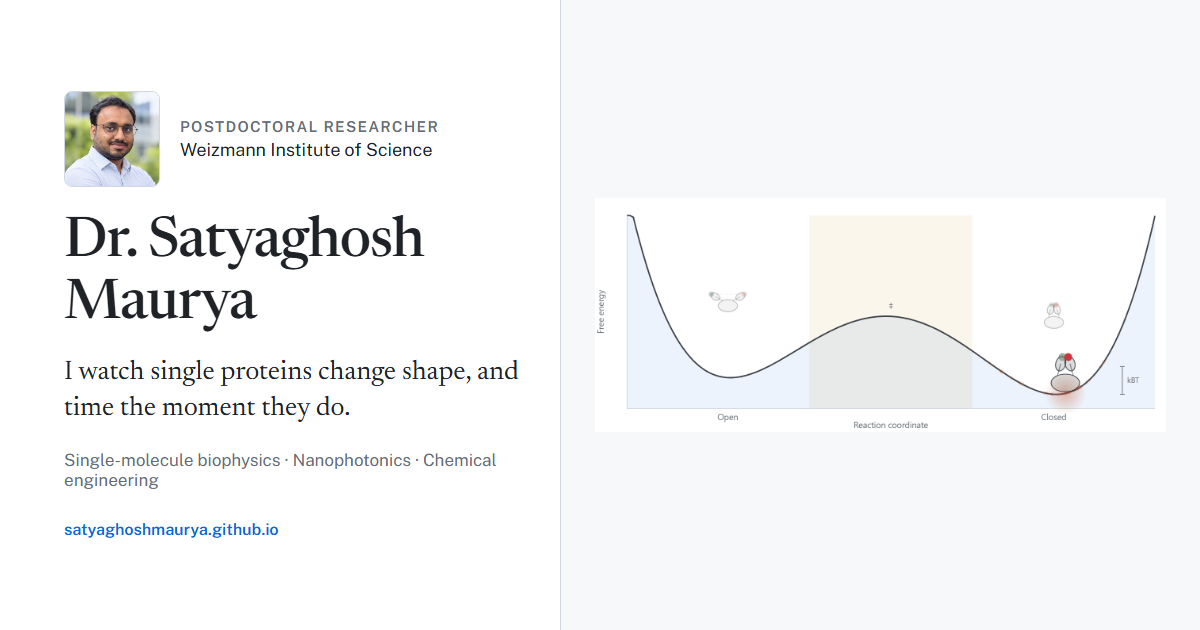
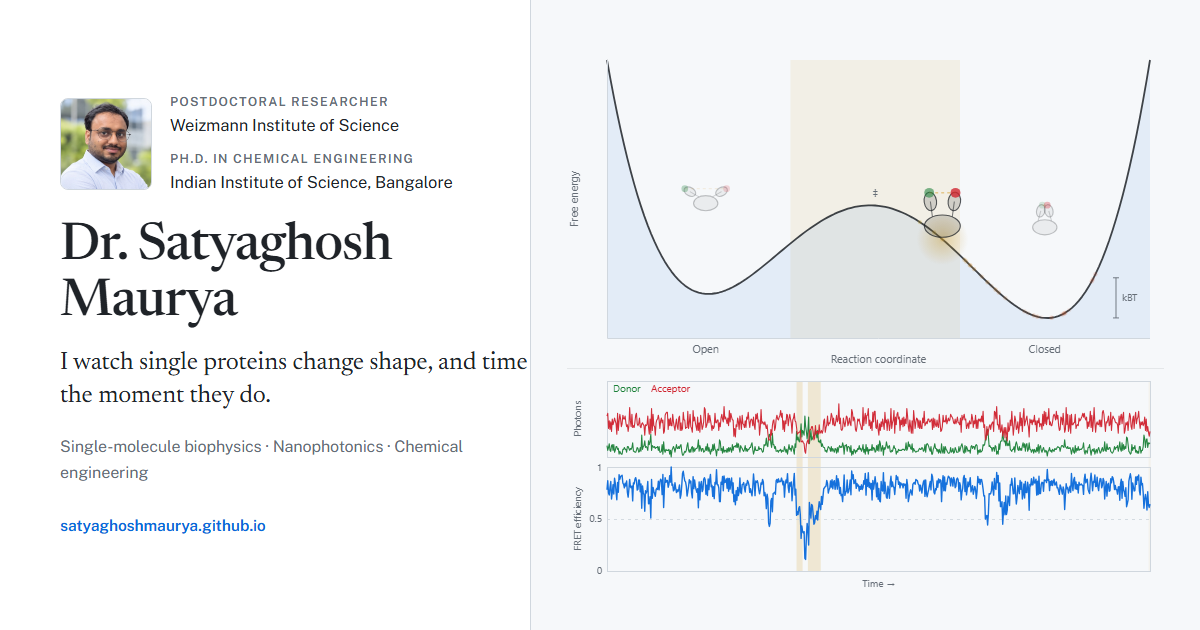
Preview card: add the doctorate and the FRET trace; point the photo inbox at Drive
The card now runs the real hero figure, so it carries the conformational landscape and the donor, acceptor and FRET traces instead of a single static figure, and the left side lists both the postdoctoral post and the Ph.D. The Atlas inbox stays in Google Drive, reachable from the phone, now that the site is edited from this repository.

diff --git a/tools/og/og-card.html b/tools/og/og-card.html
@@ -6,50 +6,107 @@
 <link rel="preconnect" href="https://fonts.googleapis.com">
 <link rel="preconnect" href="https://fonts.gstatic.com" crossorigin>
 <link href="https://fonts.googleapis.com/css2?family=Newsreader:opsz,wght@6..72,400;6..72,500;6..72,600&family=Public+Sans:wght@400;500;600&display=swap" rel="stylesheet">
+<link rel="stylesheet" href="../../css/style.css">
 <style>
   /* Rendered at exactly 1200x630 and saved to assets/img/og-card.png.
-     See tools/og/README.md for the one command that regenerates it. */
-  * { box-sizing: border-box; margin: 0; padding: 0; }
+     The right half runs the real hero figure, so the card carries both the
+     conformational landscape and the FRET trace below it. See README.md. */
+  * { box-sizing: border-box; }
   body {
     width: 1200px;
     height: 630px;
+    margin: 0;
     overflow: hidden;
-    background: #ffffff;
-    color: #1f2328;
-    font-family: "Public Sans", -apple-system, "Segoe UI", sans-serif;
+    background: var(--bg);
     display: grid;
-    grid-template-columns: 560px 1fr;
+    grid-template-columns: 530px 1fr;
     align-items: center;
   }
-  .left { padding: 58px 0 58px 64px; }
-  .id { display: flex; align-items: center; gap: 20px; margin-bottom: 26px; }
-  .id img { width: 96px; height: 96px; border-radius: 8px; object-fit: cover; border: 1px solid #d0d7de; }
-  .role { font-size: 15px; font-weight: 600; letter-spacing: 0.09em; text-transform: uppercase; color: #656d76; }
-  .org { font-size: 18px; color: #1f2328; margin-top: 4px; }
-  h1 { font-family: "Newsreader", Georgia, serif; font-size: 56px; font-weight: 500; letter-spacing: -0.02em; line-height: 1.1; }
-  .lede { font-family: "Newsreader", Georgia, serif; font-size: 27px; line-height: 1.35; color: #1f2328; margin-top: 18px; }
-  .keys { font-size: 17px; color: #656d76; margin-top: 22px; }
-  .url { font-size: 16px; color: #0969da; font-weight: 600; margin-top: 30px; }
-  .right { height: 100%; display: flex; align-items: center; justify-content: center; background: #f6f8fa; border-left: 1px solid #d0d7de; padding: 40px 34px; }
-  .right img { max-width: 100%; max-height: 100%; object-fit: contain; }
+
+  .card-left { padding: 50px 0 50px 60px; }
+
+  .card-id { display: flex; align-items: center; gap: 18px; margin-bottom: 22px; }
+  .card-id img {
+    width: 92px; height: 92px; border-radius: 8px;
+    object-fit: cover; border: 1px solid var(--border); flex-shrink: 0;
+  }
+  .card-role {
+    font-size: 12.5px; font-weight: 600; letter-spacing: 0.1em;
+    text-transform: uppercase; color: var(--text-muted);
+  }
+  .card-org { font-size: 16.5px; color: var(--text); margin: 0 0 9px; }
+  .card-org:last-child { margin-bottom: 0; }
+
+  .card-name {
+    font-family: var(--font-serif); font-size: 52px; font-weight: 500;
+    letter-spacing: -0.02em; line-height: 1.08; margin: 0;
+  }
+  .card-lede {
+    font-family: var(--font-serif); font-size: 25px; line-height: 1.34;
+    color: var(--text); margin: 16px 0 0;
+  }
+  .card-keys { font-size: 16px; color: var(--text-muted); margin: 20px 0 0; }
+  .card-url { font-size: 15.5px; color: var(--accent); font-weight: 600; margin: 26px 0 0; }
+
+  /* right half: the live figure, stripped of its controls and caption */
+  .card-figure {
+    height: 100%; padding: 30px 36px;
+    background: var(--bg-alt); border-left: 1px solid var(--border);
+    display: flex; align-items: center;
+  }
+  .card-figure .landscape-hero {
+    margin: 0; width: 100%; border: none; background: transparent; box-shadow: none;
+    padding: 0; border-radius: 0;
+  }
+  .card-figure .landscape-hero-bar,
+  .card-figure .landscape-hero-caption { display: none; }
+  .card-figure .landscape-canvas { height: 330px; }
+  .card-figure .trace-canvas { height: 225px; }
 </style>
 </head>
 <body>
-  <div class="left">
-    <div class="id">
+  <div class="card-left">
+    <div class="card-id">
       <img src="../../assets/img/portrait.jpg" alt="">
       <div>
-        <div class="role">Postdoctoral Researcher</div>
-        <div class="org">Weizmann Institute of Science</div>
+        <div class="card-role">Postdoctoral Researcher</div>
+        <p class="card-org">Weizmann Institute of Science</p>
+        <div class="card-role">Ph.D. in Chemical Engineering</div>
+        <p class="card-org">Indian Institute of Science, Bangalore</p>
       </div>
     </div>
-    <h1>Dr. Satyaghosh Maurya</h1>
-    <p class="lede">I watch single proteins change shape, and time the moment they do.</p>
-    <p class="keys">Single-molecule biophysics &middot; Nanophotonics &middot; Chemical engineering</p>
-    <p class="url">satyaghoshmaurya.github.io</p>
+    <h1 class="card-name">Dr. Satyaghosh Maurya</h1>
+    <p class="card-lede">I watch single proteins change shape, and time the moment they do.</p>
+    <p class="card-keys">Single-molecule biophysics &middot; Nanophotonics &middot; Chemical engineering</p>
+    <p class="card-url">satyaghoshmaurya.github.io</p>
   </div>
-  <div class="right">
-    <img src="../../assets/img/research/landscape.png" alt="">
+
+  <div class="card-figure">
+    <figure class="landscape-hero" id="landscapeHero">
+      <div class="landscape-hero-bar">
+        <span class="landscape-hero-title">Watching a single protein open and close</span>
+        <div class="landscape-hero-controls">
+          <label class="landscape-hero-slider">
+            <span>Temperature</span>
+            <input type="range" id="heroTemp" min="0.22" max="0.70" step="0.01" value="0.40">
+            <span id="heroTempVal" class="mono">&Delta;G&Dagger; &asymp; 2.8 kBT</span>
+          </label>
+          <button type="button" class="hero-btn hero-btn-primary" id="heroPlay">Play</button>
+        </div>
+      </div>
+      <canvas id="landscapeCanvas" class="landscape-canvas" role="img" aria-label="Conformational free-energy landscape"></canvas>
+      <canvas id="traceCanvas" class="trace-canvas" role="img" aria-label="Donor and acceptor photon counts and FRET efficiency"></canvas>
+      <figcaption class="landscape-hero-caption">
+        <span>E<sub>FRET</sub> = <strong id="heroReadoutE" class="mono">0.84</strong></span>
+        <span>State: <strong id="heroReadoutState">Closed</strong></span>
+        <span>Transitions: <strong id="heroReadoutN" class="mono">0</strong></span>
+        <span>Last transition path: <strong id="heroReadoutTP" class="mono">&ndash;</strong></span>
+        <span class="hero-hint" id="heroHint"></span>
+        <span class="landscape-hero-note"></span>
+      </figcaption>
+    </figure>
   </div>
+
+  <script src="../../js/landscape-hero.js"></script>
 </body>
 </html>

diff --git a/tools/atlas/atlas_ingest.py b/tools/atlas/atlas_ingest.py
@@ -51,7 +51,10 @@ except Exception:  # noqa: BLE001
     pass
 
 SITE_DEFAULT = Path(__file__).resolve().parents[2]
-INBOX_DEFAULT = SITE_DEFAULT / "_atlas_inbox"   # inside the project; the underscore keeps GitHub Pages from serving it
+INBOX_DEFAULT = Path(r"G:\My Drive\Anu\Satya\WebSite_github\_atlas_inbox")
+# The inbox stays in Google Drive, not in this repository, so photographs can be
+# shared straight into it from Google Photos on the phone. Only resized copies with
+# the camera metadata stripped are written into assets/img/field/atlas/ and published.
 VAULT_DEFAULT = Path(r"G:\My Drive\New_Projects\Citizen_Science\Native_flora_fauna\awadh-biodiversity-atlas")
 
 WEB_SUBDIR = Path("assets") / "img" / "field" / "atlas"

diff --git a/tools/atlas/README.md b/tools/atlas/README.md
@@ -4,12 +4,13 @@ The species knowledge lives in the Awadh Biodiversity Atlas vault
 (`G:\My Drive\New_Projects\Citizen_Science\Native_flora_fauna\awadh-biodiversity-atlas`,
 332 species profiles, `species_index.csv` is the master list). The photos live in
 Google Photos. This folder holds the script that joins the two and puts the result on
-`hobbies.html`.
+`hobbies.html`. The inbox deliberately stays in Google Drive while the site itself is
+edited in this repository at `D:\Projects\website`.
 
 Nothing here talks to Google Photos. Photos reach a plain folder first:
 
 ```text
-G:\My Drive\Anu\Satya\WebSite_github\_atlas_inbox\   <- the inbox, inside the project
+G:\My Drive\Anu\Satya\WebSite_github\_atlas_inbox\   <- the inbox, in Drive, reachable from the phone
     IMG_2041.jpg                          <- loose photos are fine
     Ashy Prinia\IMG_2042.jpg              <- or sorted into a folder per species
     manifest.csv                          <- generated; the only file you edit
